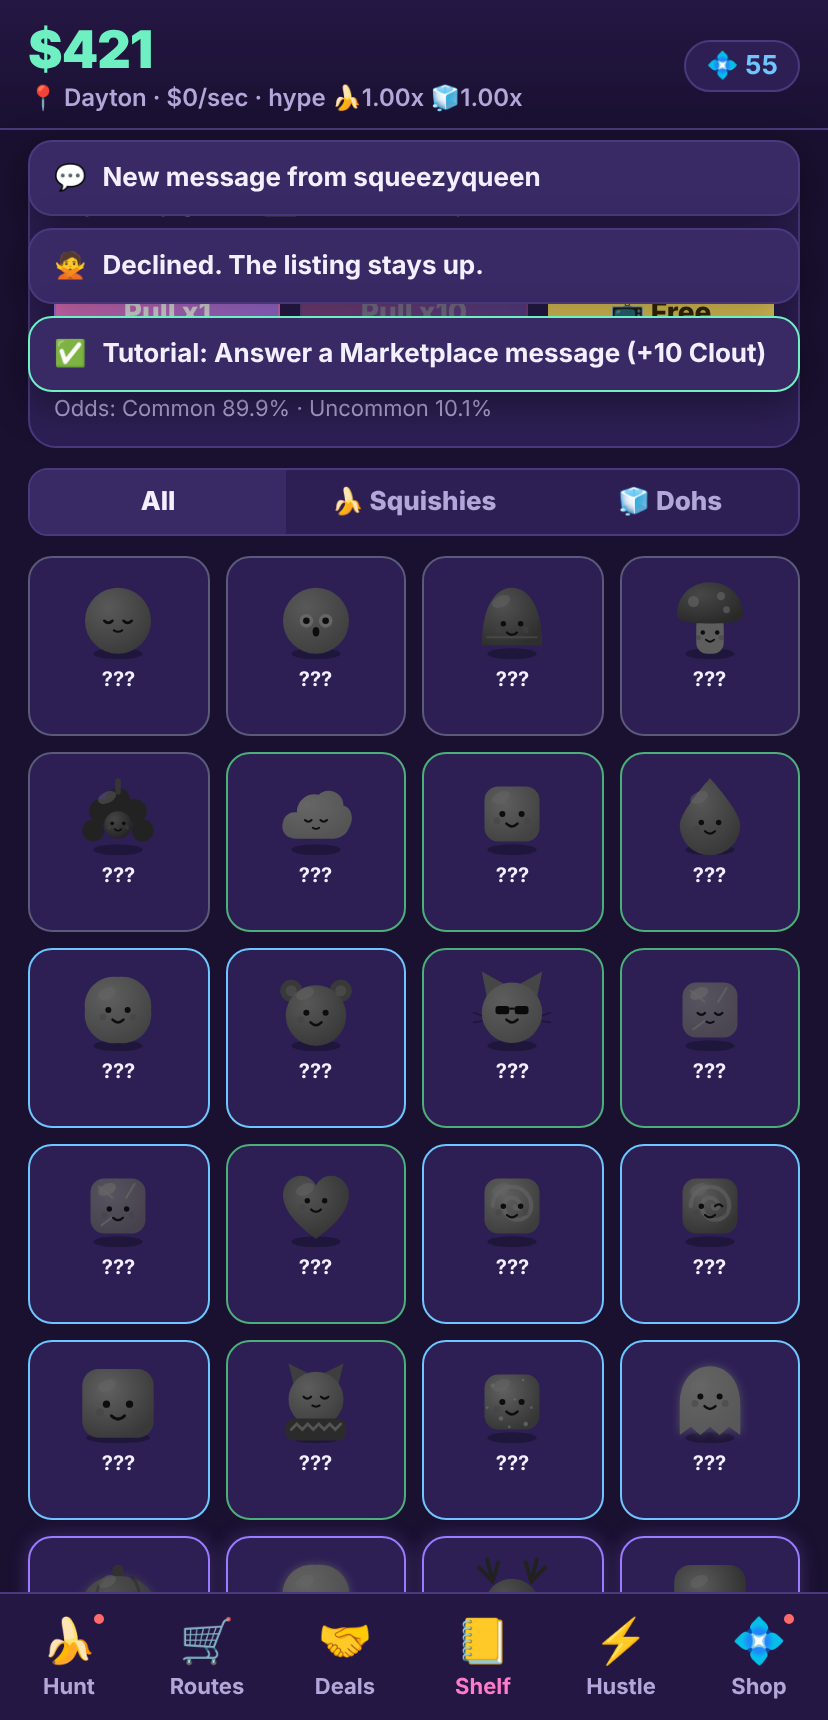
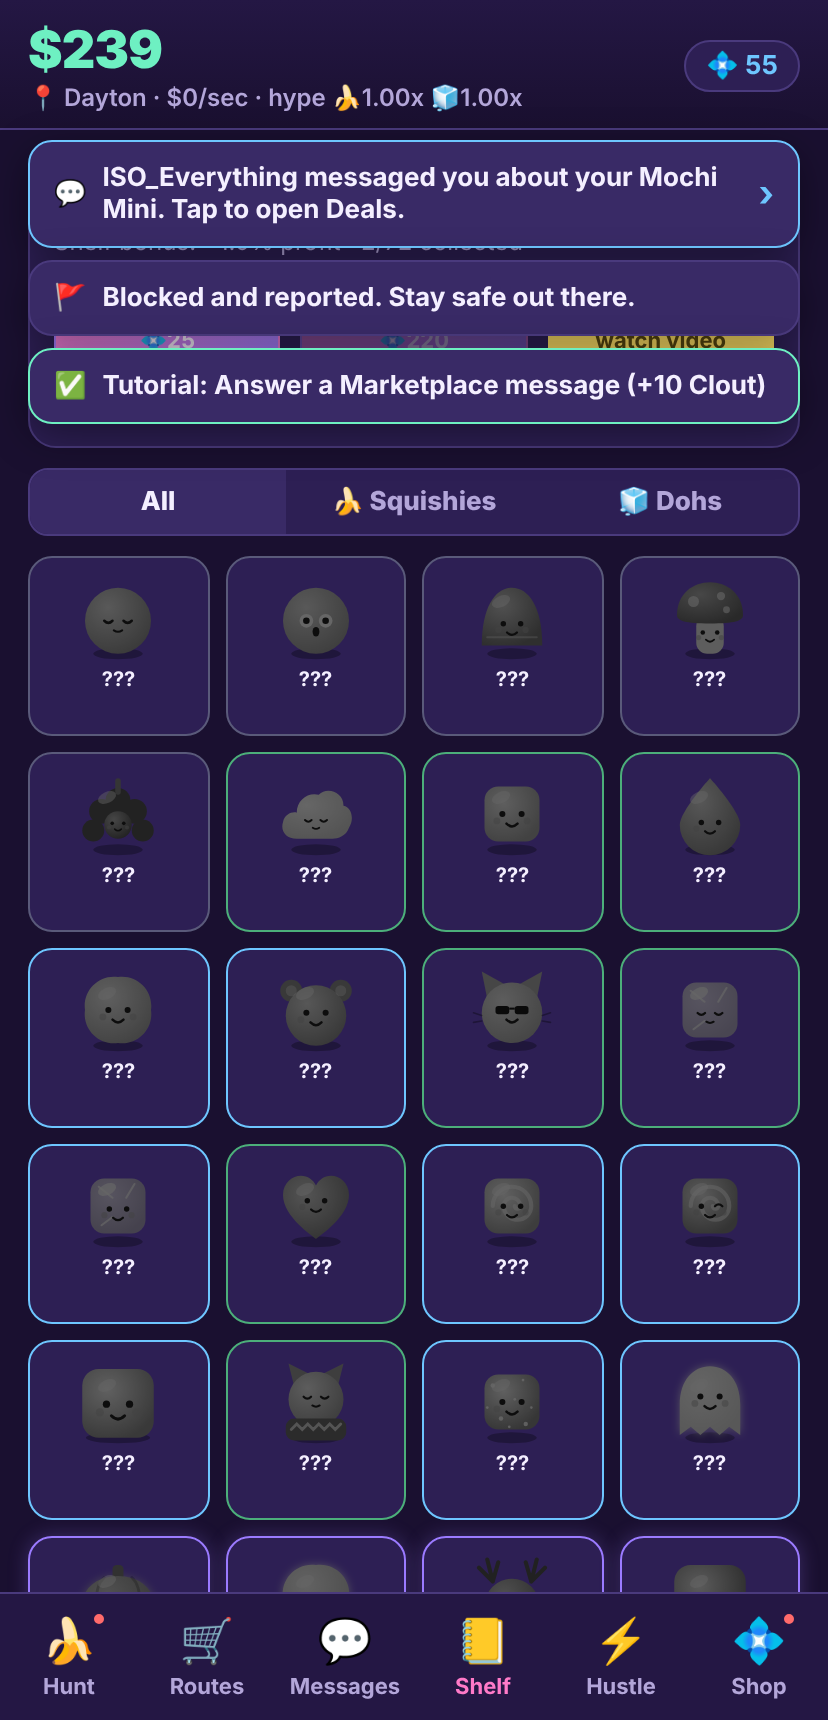
Scalp Street: make buyer messages findable
The Deals tab is now Messages with an unread count on the nav icon, the
inbox sits at the top of the tab above Heat and pricing, a new message
raises a tappable toast naming the buyer and item that jumps to the tab,
offers wait 3 minutes instead of 90 seconds, and the tutorial hint names
the tab. Smoke and soak updated.

Claude-Session: https://claude.ai/code/session_01MZnGvyVSyAsA5yFMotXPV8

Changed region(s): [[0.0302, 0.0924, 0.9662, 0.2465], [0.0604, 0.0, 0.2114, 0.0616], [0.3623, 0.9244, 0.4831, 0.986]]

diff --git a/scalp-street/src/ui/DealsTab.tsx b/scalp-street/src/ui/DealsTab.tsx
@@ -3,7 +3,7 @@ import { useGame } from '../engine/store';
 import { UPGRADES } from '../engine/data/upgrades';
 import { ITEM_BY_ID } from '../engine/data/items';
 import { DRAMA_FEED } from '../engine/data/offers';
-import { APOLOGY_CLOUT, CALLED_OUT_SECONDS, PRICING } from '../engine/deals';
+import { APOLOGY_CLOUT, CALLED_OUT_SECONDS, PRICING, OFFER_TTL_SECONDS } from '../engine/deals';
 import type { Pricing, OfferKind } from '../engine/types';
 import { Sprite } from '../art/Sprite';
 import { Portrait, type PortraitKind } from '../art/Portrait';
@@ -45,32 +45,9 @@ export function DealsTab() {
 
   return (
     <div>
-      <div className={`card heat ${heatCls}`}>
-        <div className="row between">
-          <h3>🔥 Community heat · {Math.floor(s.heat)}/100</h3>
-          <button className="btn sm" disabled={s.heat < 10 && !calledOut} onClick={apologize}>📝 Apology video 💠{APOLOGY_CLOUT}</button>
-        </div>
-        <div className="progress heatbar mt"><i style={{ width: `${s.heat}%` }} /></div>
-        <div className="small mt">
-          {calledOut
-            ? `CALLED OUT: the group posted your listings. Profit x0.4 for ${formatDuration((calledOut.endsAt - now) / 1000)}.`
-            : `Sketchy tactics, clapping back and bot farms raise it. At 100 the group screenshots you: profit x0.4 for ${CALLED_OUT_SECONDS / 60} minutes.`}
-        </div>
-      </div>
-
-      <div className="ticker">📣 {DRAMA_FEED[drama]}</div>
-
-      <h2 className="sec">Your Facebook listings · pricing</h2>
-      <div className="seg">
-        {(Object.keys(PRICING) as Pricing[]).map((p) => (
-          <button key={p} className={s.pricing === p ? 'active' : ''} onClick={() => setPricing(p)}>{PRICING[p].label}</button>
-        ))}
-      </div>
-      <div className="small" style={{ marginTop: -4, marginBottom: 8 }}>{PRICING[s.pricing].blurb}</div>
-
-      <h2 className="sec">Messages · {s.offers.length} open {m.offerRate > 1 || m.offerValue > 1 ? `· x${m.offerRate.toFixed(1)} rate, x${m.offerValue.toFixed(2)} value` : ''}</h2>
+      <h2 className="sec">📬 Marketplace inbox · {s.offers.length} open {m.offerRate > 1 || m.offerValue > 1 ? `· x${m.offerRate.toFixed(1)} rate, x${m.offerValue.toFixed(2)} value` : ''}</h2>
       {s.offers.length === 0 && (
-        <div className="card center sub">No messages. Buyers find your listings every ~{Math.round(30 / m.offerRate)}s while you play. Pull more items to list more.</div>
+        <div className="card center sub">Inbox empty. Buyers message you about your shelf every ~{Math.round(30 / m.offerRate)}s while the game is open, and each message waits {OFFER_TTL_SECONDS / 60} minutes. Pull more items to list more.</div>
       )}
       {s.offers.map((o) => {
         const it = ITEM_BY_ID[o.itemId];
@@ -115,6 +92,29 @@ export function DealsTab() {
           </div>
         );
       })}
+
+      <div className={`card heat ${heatCls}`}>
+        <div className="row between">
+          <h3>🔥 Community heat · {Math.floor(s.heat)}/100</h3>
+          <button className="btn sm" disabled={s.heat < 10 && !calledOut} onClick={apologize}>📝 Apology video 💠{APOLOGY_CLOUT}</button>
+        </div>
+        <div className="progress heatbar mt"><i style={{ width: `${s.heat}%` }} /></div>
+        <div className="small mt">
+          {calledOut
+            ? `CALLED OUT: the group posted your listings. Profit x0.4 for ${formatDuration((calledOut.endsAt - now) / 1000)}.`
+            : `Sketchy tactics, clapping back and bot farms raise it. At 100 the group screenshots you: profit x0.4 for ${CALLED_OUT_SECONDS / 60} minutes.`}
+        </div>
+      </div>
+
+      <div className="ticker">📣 {DRAMA_FEED[drama]}</div>
+
+      <h2 className="sec">Your Facebook listings · pricing</h2>
+      <div className="seg">
+        {(Object.keys(PRICING) as Pricing[]).map((p) => (
+          <button key={p} className={s.pricing === p ? 'active' : ''} onClick={() => setPricing(p)}>{PRICING[p].label}</button>
+        ))}
+      </div>
+      <div className="small" style={{ marginTop: -4, marginBottom: 8 }}>{PRICING[s.pricing].blurb}</div>
 
       {s.fakes.length > 0 && (
         <>

diff --git a/scalp-street/src/engine/store.ts b/scalp-street/src/engine/store.ts
@@ -6,6 +6,7 @@ import { fx } from '../ui/fxbus';
 import { TUTORIAL } from './data/tutorial';
 import { RANKED_RIVALS } from './data/rivals';
 import { CITY_BY_ID } from './data/cities';
+import { ITEM_BY_ID } from './data/items';
 import { initialState, deserialize, serialize, SAVE_KEY } from './state';
 import {
   tick, computeModifiers, applyOfflineOnLoad, claimOffline, storeUnlocked, startCycle, earn, tapValue,
@@ -21,11 +22,15 @@ import { acceptOffer, counterOffer, declineOffer, apologize, tossFake, flipFake,
 import { unitCost, maxAffordable, todayKey } from './math';
 import { AD_RULES, type AdPlacement, type MonetizationProvider } from '../monetization/provider';
 
+export type TabId = 'hunt' | 'stores' | 'deals' | 'shelf' | 'boost' | 'shop';
+
 export interface Toast {
   id: number;
   text: string;
   icon?: string;
   kind?: 'info' | 'good' | 'bad' | 'rare';
+  /** Tapping the toast jumps to this tab. */
+  tab?: TabId;
 }
 
 export type BuyAmount = 1 | 10 | 100 | 'max';
@@ -61,6 +66,8 @@ interface GameStore {
   openRelocate: () => void;
   closeRelocate: () => void;
   relocating: boolean;
+  tabRequest: TabId | null;
+  requestTab: (t: TabId | null) => void;
   claimOfflineNormal: () => void;
   claimOfflineDouble: () => Promise<void>;
   watchAd: (placement: AdPlacement) => Promise<void>;
@@ -85,7 +92,7 @@ interface GameStore {
   apologize: () => void;
   fakeToss: (idx: number) => void;
   fakeFlip: (idx: number) => void;
-  toast: (text: string, icon?: string, kind?: Toast['kind']) => void;
+  toast: (text: string, icon?: string, kind?: Toast['kind'], tab?: TabId) => void;
   dismissToast: (id: number) => void;
   setSetting: <K extends keyof GameState['settings']>(k: K, v: GameState['settings'][K]) => void;
 }
@@ -99,10 +106,10 @@ export const useGame = create<GameStore>((set, get) => {
     fn(s);
     set({ s: { ...s } });
   };
-  const toast = (text: string, icon?: string, kind: Toast['kind'] = 'info') => {
+  const toast = (text: string, icon?: string, kind: Toast['kind'] = 'info', tab?: TabId) => {
     const id = toastSeq++;
-    set((st) => ({ toasts: [...st.toasts.slice(-4), { id, text, icon, kind }] }));
-    setTimeout(() => get().dismissToast(id), 3500);
+    set((st) => ({ toasts: [...st.toasts.slice(-4), { id, text, icon, kind, tab }] }));
+    setTimeout(() => get().dismissToast(id), tab ? 6000 : 3500);
   };
   const track = (event: string, props?: Record<string, string | number | boolean>) => get().provider?.analytics.track(event, props);
 
@@ -157,6 +164,8 @@ export const useGame = create<GameStore>((set, get) => {
     run: null,
     runResult: null,
     relocating: false,
+    tabRequest: null,
+    requestTab: (t) => set({ tabRequest: t }),
     provider: null,
     buyAmount: 1,
 
@@ -230,7 +239,7 @@ export const useGame = create<GameStore>((set, get) => {
         const kinds: Record<MarketEventKind, string> = { drop: '🔥', viral: '📱', holiday: '🎄', restock: '🌊', crackdown: '🚫' };
         toast(`Market event: ${res.eventStarted.toUpperCase()}`, kinds[res.eventStarted], res.eventStarted === 'restock' || res.eventStarted === 'crackdown' ? 'bad' : 'good');
       }
-      if (res.offerArrived) { toast(`New message from ${res.offerArrived.buyer}`, '💬', 'info'); sfx.message(); }
+      if (res.offerArrived) { toast(`${res.offerArrived.buyer} messaged you about your ${ITEM_BY_ID[res.offerArrived.itemId]?.name ?? 'listing'}. Tap to open Deals.`, '💬', 'info', 'deals'); sfx.message(); }
       if (res.calledOut) { toast('CALLED OUT. The group posted your listings. Profit x0.4 for 3 min.', '📸', 'bad'); sfx.calledOut(); fx({ kind: 'shake' }); fx({ kind: 'flash', color: '#ff6b6b' }); }
       for (const id of res.tutorialDone) { const t = TUTORIAL.find((x) => x.id === id); toast(`Tutorial: ${t?.text} (+${t?.clout} Clout)`, '✅', 'good'); sfx.achievement(); }
       for (const id of res.overtook) { const r = RANKED_RIVALS.find((x) => x.id === id); toast(`You passed ${r?.name} in the local rankings! +${r?.clout} Clout`, r?.icon ?? '🏆', 'rare'); sfx.rare(); fx({ kind: 'confetti', intensity: 1 }); }

diff --git a/scalp-street/src/engine/data/tutorial.ts b/scalp-street/src/engine/data/tutorial.ts
@@ -16,7 +16,7 @@ export const TUTORIAL: TutorialStep[] = [
   { id: 't_unit', text: 'Buy your first store unit', hint: 'Routes tab. Dollar Dohjo costs $4. Tap its icon to run a cycle.', clout: 5, tab: 'stores', check: (s) => s.stats.unitsBought >= 1 },
   { id: 't_manager', text: 'Hire a manager', hint: 'Routes tab. Cousin Dwayne automates Dollar Dohjo for $100 and earns while you are away.', clout: 10, tab: 'stores', check: (s) => Object.values(s.stores).some((st) => st.manager) },
   { id: 't_restock', text: 'Camp a restock', hint: 'Hunt tab. Stand in line, then mash GRAB when the doors open. Watch out for moms.', clout: 10, tab: 'hunt', check: (s) => s.stats.restocks >= 1 },
-  { id: 't_deal', text: 'Answer a Marketplace message', hint: 'Deals tab. Accept, counter or decline. "Hi dear" is a scam.', clout: 10, tab: 'deals', check: (s) => s.stats.offersAccepted + s.stats.offersDeclined >= 1 },
+  { id: 't_deal', text: 'Answer a Marketplace message', hint: 'Messages tab (💬). Buyers message you about items on your shelf. Accept, counter or decline. "Hi dear" is a scam.', clout: 10, tab: 'deals', check: (s) => s.stats.offersAccepted + s.stats.offersDeclined >= 1 },
   { id: 't_upgrade', text: 'Buy an upgrade', hint: 'Hustle tab. Faster Thumbs is $500 and doubles your tap.', clout: 10, tab: 'boost', check: (s) => s.upgrades.some((u) => u.startsWith('u_')) },
   { id: 't_pull', text: 'Open a mystery pull', hint: 'Fill the Hunt meter, watch a video on the Shelf tab, or spend Clout.', clout: 10, tab: 'shelf', check: (s) => s.stats.pulls >= 1 },
   { id: 't_mission', text: 'Claim a daily mission', hint: 'Hunt tab. Missions pay Clout and Hustle Pass XP.', clout: 10, tab: 'hunt', check: (s) => s.missions.some((m) => m.claimed) },

diff --git a/scalp-street/src/ui/App.tsx b/scalp-street/src/ui/App.tsx
@@ -21,7 +21,7 @@ export type Tab = 'hunt' | 'stores' | 'deals' | 'shelf' | 'boost' | 'shop';
 const TABS: { id: Tab; label: string; icon: string }[] = [
   { id: 'hunt', label: 'Hunt', icon: '🍌' },
   { id: 'stores', label: 'Routes', icon: '🛒' },
-  { id: 'deals', label: 'Deals', icon: '🤝' },
+  { id: 'deals', label: 'Messages', icon: '💬' },
   { id: 'shelf', label: 'Shelf', icon: '📒' },
   { id: 'boost', label: 'Hustle', icon: '⚡' },
   { id: 'shop', label: 'Shop', icon: '💠' },
@@ -40,7 +40,13 @@ export function App() {
   const setProvider = useGame((g) => g.setProvider);
   const s = useGame((g) => g.s);
   const now = useGame((g) => g.now);
+  const tabRequest = useGame((g) => g.tabRequest);
+  const requestTab = useGame((g) => g.requestTab);
   const loaded = useRef(false);
+
+  useEffect(() => {
+    if (tabRequest) { setTab(tabRequest); requestTab(null); }
+  }, [tabRequest, requestTab]);
 
   // Boot: provider, load save (offline earnings), start the loop, autosave.
   useEffect(() => {
@@ -95,7 +101,7 @@ export function App() {
           <button key={t.id} className={tab === t.id ? 'active' : ''} onClick={() => setTab(t.id)}>
             <span className="ico">{t.icon}</span>
             {t.label}
-            {dots[t.id] && <span className="dot" />}
+            {t.id === 'deals' && s.offers.length > 0 ? <span className="count">{s.offers.length}</span> : dots[t.id] && <span className="dot" />}
           </button>
         ))}
       </nav>

diff --git a/scalp-street/src/styles.css b/scalp-street/src/styles.css
@@ -128,6 +128,9 @@ h2.sec { font-size: 13px; text-transform: uppercase; letter-spacing: 1px; color:
 .ad .screen b { font-size: 40px; color: #fff; }
 
 .toasts { position: fixed; top: calc(70px + var(--safe-t)); left: 50%; transform: translateX(-50%); z-index: 60; display: flex; flex-direction: column; gap: 6px; width: calc(100% - 28px); max-width: 480px; pointer-events: none; }
+.toast.link { pointer-events: auto; cursor: pointer; border-color: var(--blue); }
+.toast.link::after { content: '›'; margin-left: auto; font-size: 18px; color: var(--blue); }
+.nav .count { position: absolute; top: 4px; right: 18%; min-width: 18px; height: 18px; padding: 0 5px; border-radius: 999px; background: var(--red); color: #fff; font-size: 11px; font-weight: 900; display: flex; align-items: center; justify-content: center; border: 2px solid var(--bg2); }
 .toast { background: var(--card2); border: 1px solid var(--line); border-radius: 12px; padding: 10px 12px; font-size: 13px; font-weight: 700; display: flex; gap: 8px; align-items: center; animation: pop 0.15s ease-out; box-shadow: 0 6px 20px rgba(0,0,0,0.4); }
 .toast.good { border-color: var(--mint); }
 .toast.bad { border-color: var(--red); }

diff --git a/scalp-street/src/ui/Overlays.tsx b/scalp-street/src/ui/Overlays.tsx
@@ -15,6 +15,8 @@ export function Overlays() {
   const claimOfflineNormal = useGame((g) => g.claimOfflineNormal);
   const claimOfflineDouble = useGame((g) => g.claimOfflineDouble);
   const dismissPulls = useGame((g) => g.dismissPulls);
+  const requestTab = useGame((g) => g.requestTab);
+  const dismissToast = useGame((g) => g.dismissToast);
   const noAds = isAdFree(s, Date.now());
 
   return (
@@ -54,7 +56,7 @@ export function Overlays() {
       )}
       <div className="toasts">
         {toasts.map((t) => (
-          <div key={t.id} className={`toast ${t.kind ?? ''}`}>
+          <div key={t.id} className={`toast ${t.kind ?? ''} ${t.tab ? 'link' : ''}`} onClick={() => { if (t.tab) { requestTab(t.tab); dismissToast(t.id); } }}>
             {t.icon && <span>{t.icon}</span>}
             {t.text}
           </div>

diff --git a/scalp-street/src/engine/deals.ts b/scalp-street/src/engine/deals.ts
@@ -10,7 +10,7 @@ import { formatCash, weightedPick } from './math';
 
 export const MAX_OFFERS = 3;
 export const OFFER_INTERVAL_SECONDS = 30;
-export const OFFER_TTL_SECONDS = 90;
+export const OFFER_TTL_SECONDS = 180;
 
 const KIND_WEIGHTS: Record<OfferKind, number> = { fair: 28, lowball: 26, ghost: 14, scam: 11, karen: 8, trade: 5, sneakerbro: 8 };
 

diff --git a/scalp-street/docs/game-design.md b/scalp-street/docs/game-design.md
@@ -60,7 +60,8 @@ address, live-stream sellers double-selling. All of it is in the game.
 
 **Deals feed.** While the player is active, a buyer message arrives roughly
 every 30 seconds (faster with channels), up to three open at once, each
-expiring after 90 seconds. Offers are sized in seconds of current income so
+expiring after 3 minutes. A new message raises a tappable toast that jumps
+to the Messages tab, and the tab shows an unread count. Offers are sized in seconds of current income so
 they matter at every stage:
 
 | Kind | Weight | Worth | Accept | Counter | Decline |
